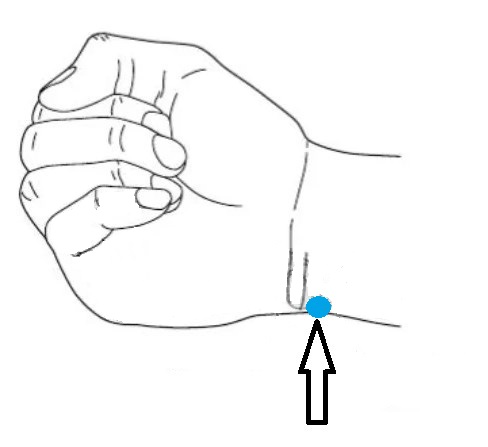
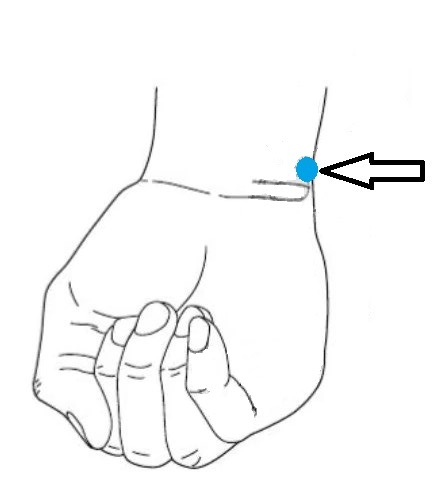
Rotate SI-5 images 90 degrees clockwise
- Rotated SI-5.jpg and SI-5a.jpg in demo/assets/point-images/
- Updated cache-busting timestamp to v=20251207184300

diff --git a/demo/index.html b/demo/index.html
@@ -23,7 +23,7 @@
     <meta property="twitter:description" content="Try JetLagPro's interactive horary points system. Experience how the app helps you overcome jet lag through traditional Chinese medicine.">
     <meta property="twitter:image" content="https://jetlagpro.com/assets/images/app-icon.png">
 
-    <link rel="stylesheet" href="styles.css?v=20251207182000">
+    <link rel="stylesheet" href="styles.css?v=20251207184300">
     <link rel="icon" type="image/png" href="../assets/images/app-icon.png">
 </head>
 <body>
@@ -404,7 +404,7 @@
 
 
     <!-- Scripts -->
-    <script src="script.js?v=20251207182000"></script>
+    <script src="script.js?v=20251207184300"></script>
     <script>
         function toggleSection(sectionId) {
             const content = document.getElementById(sectionId + 'Content');
